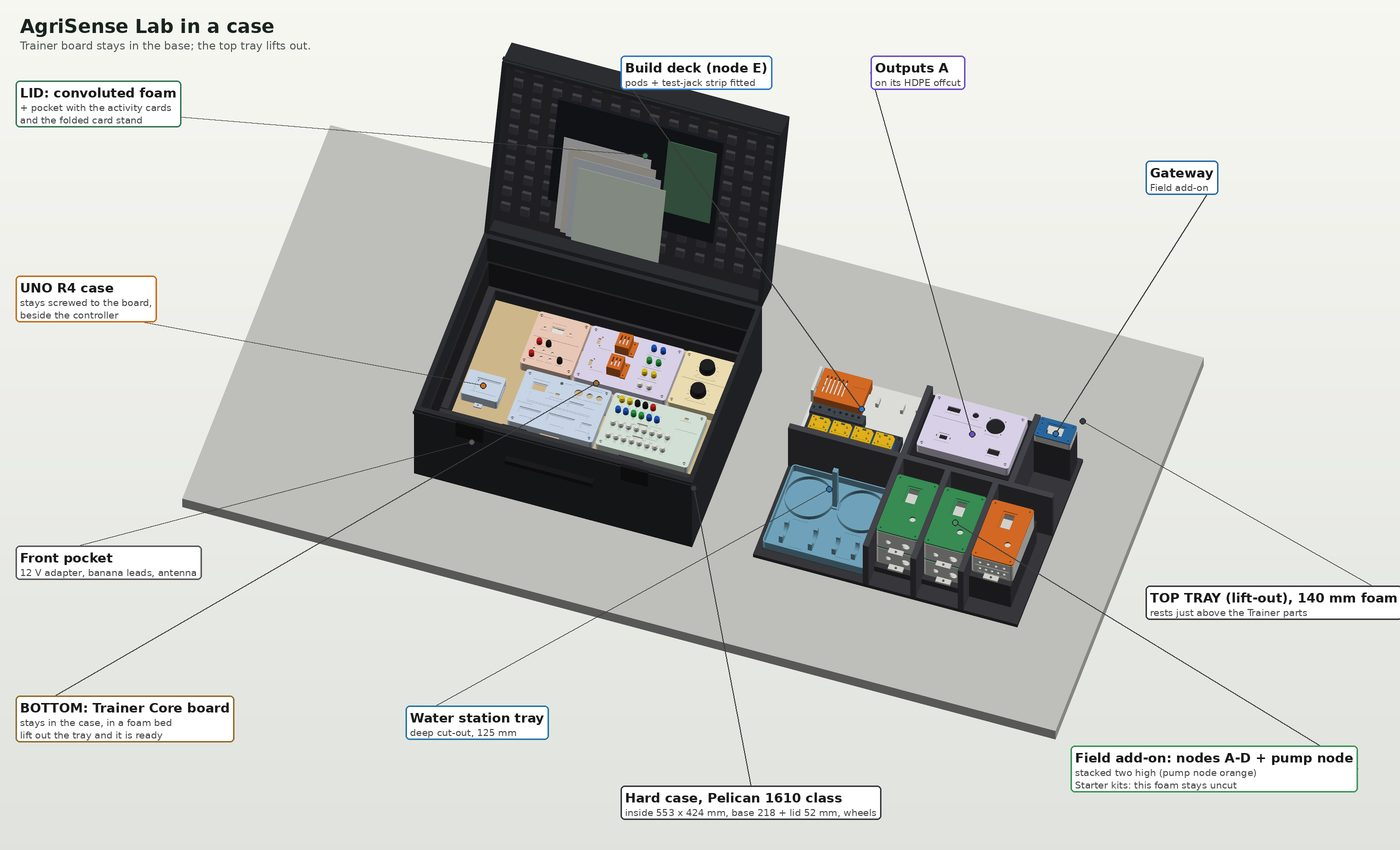
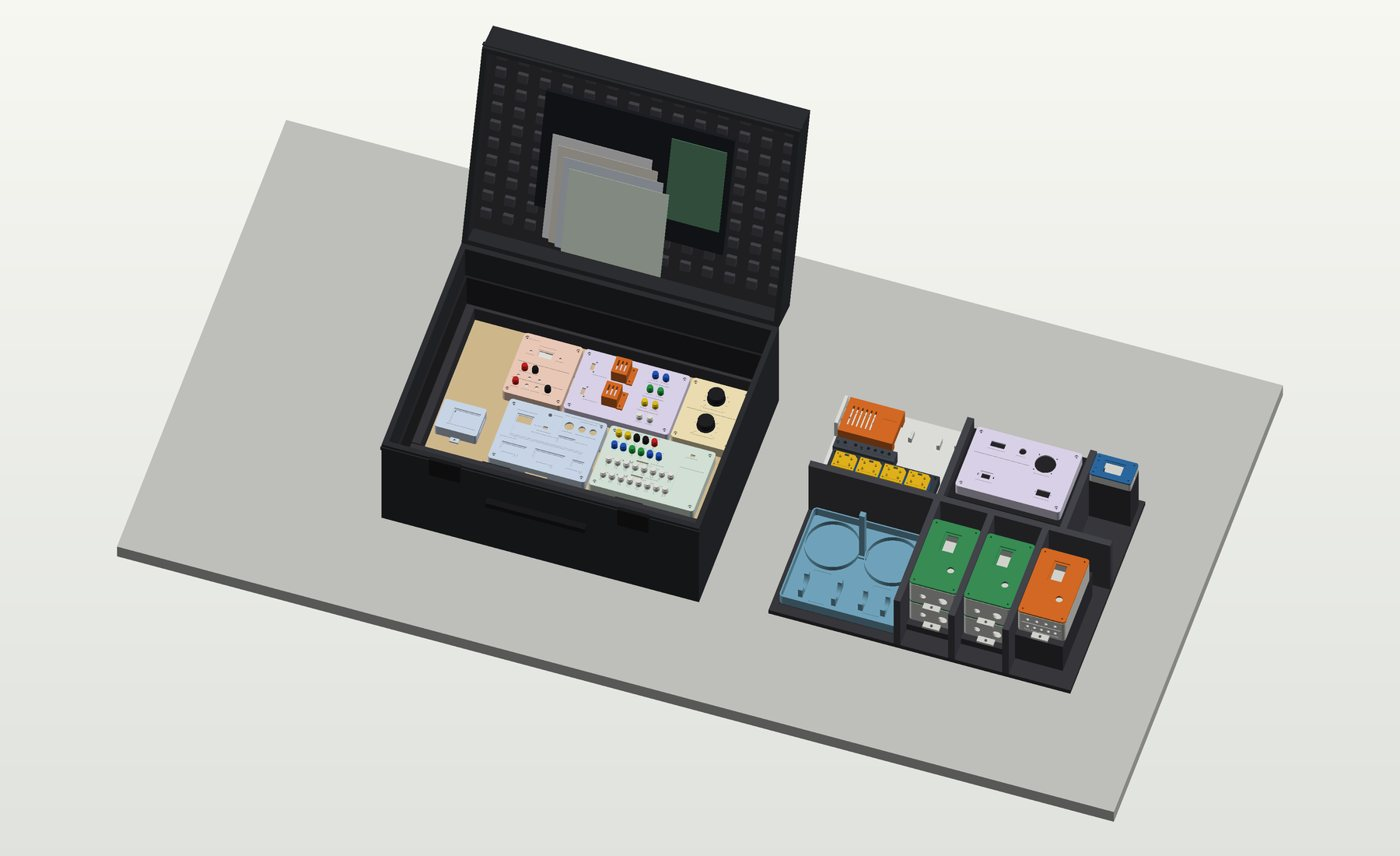
Kits page: friendlier copy, benefit tiles, clean product pictures
Plain, benefit-led kit descriptions; four 'why' tiles; encouraging FAQ (setup, no coding
needed), repair FAQ removed; Field add-on shown as an assembled kit instead of an exploded
view; picture titles and callouts removed from the kit images.

Claude-Session: https://claude.ai/code/session_01KTS5oJzAQnHpqmbrZXhuqj

diff --git a/agrisense/templates/public/kits.html b/agrisense/templates/public/kits.html
@@ -22,6 +22,10 @@
   </div>
 </section>
 
+<section id="why" class="grid g4" style="margin-top:10px;gap:12px">
+  {% for t, d in K.WHY %}<div class="card flat"><b>{{ t }}</b><p class="muted" style="margin:4px 0 0">{{ d }}</p></div>{% endfor %}
+</section>
+
 <section id="options" style="margin-top:20px">
   <h2>Options</h2>
   {% if K.ESTIMATED %}<p class="muted">Estimated prices until our supplier quotes are in. Pilot schools get pilot pricing.</p>{% endif %}
@@ -55,7 +59,7 @@
     <div class="card flat"><small class="faint">STEP {{ n }}</small><div><b>{{ t }}</b></div><p class="muted" style="margin:4px 0 0">{{ d }}</p></div>
     {% endfor %}
   </div>
-  <p class="muted" style="margin-top:12px">Funding that often covers kits like this: Perkins V (CTE), Title IV-A, and FFA chapter or local grants. We take purchase orders; we do not take card payments for kits.</p>
+  <p class="muted" style="margin-top:12px">Funding that often covers kits like this: Perkins V (CTE), Title IV-A, and FFA chapter or local grants.</p>
 </section>
 
 <section id="see" style="margin-top:36px">

diff --git a/agrisense/services/kits.py b/agrisense/services/kits.py
@@ -9,51 +9,57 @@ PILOT_TERM = "fall 2027"
 LICENCE_PER_KIT = 300                 # website licence, $ per kit (or per Virtual school) per year
 PER_STUDENT_STARTER = 13              # Starter + licence, 3 sections x 24 students, kit lasts 5 years
 
+WHY = [   # short benefit tiles near the top of /kits
+    ("Hands-on from day one", "Students plug in real sensors, a pump and a fan in the first lesson."),
+    ("Real farm decisions", "They measure the soil, decide when to water, and check if they were right."),
+    ("Works on Chromebooks", "Everything runs in the browser, including coding the student Arduino."),
+    ("Ready to teach", "14 lessons mapped to NGSS, CSTA and AFNR, with training and PD hours."),
+]
+
 KITS = [
     {"code": "starter", "name": "Starter", "price": 3149, "unit": "one-time, per kit", "image": "img/kits/starter_trainer.jpg",
      "tag": "The complete classroom lab",
-     "summary": "Everything students need to wire, measure, water and decide at one bench.",
-     "includes": ["Trainer board: power, controller, coding panel, relays (pump, fan, motor, grow light) and knobs",
-                  "UNO R4 WiFi student controller, screwed beside the controller (codes from a Chromebook)",
-                  "Water station: pump, pressure sensor, float switch, test cups",
-                  "Build deck: students assemble their own sensor node (node E)",
-                  "Plug-in sensor pods, banana leads, 12 V adapter",
-                  "Hard carry case with foam", f"Website licence: ${LICENCE_PER_KIT} a year"],
+     "summary": "Everything your class needs to wire, measure, water and decide, in one carry case.",
+     "includes": ["Trainer board with a pump, fan, motor and grow light to control",
+                  "A student Arduino your class codes from a Chromebook",
+                  "A water station to water plants and see the result",
+                  "A build deck where students build their own sensor",
+                  "Sensors, leads and a hard carry case",
+                  "All 14 lessons, dashboards and the AI Lab online"],
      "best_for": "Agriculture, science and CTE classrooms starting hands-on precision agriculture."},
-    {"code": "field", "name": "Field add-on", "price": 2249, "unit": "one-time, add to a Starter", "image": "img/kits/field_node.jpg",
+    {"code": "field", "name": "Field add-on", "price": 2249, "unit": "one-time, add to a Starter", "image": "img/kits/field_kit.jpg",
      "tag": "Optional",
-     "summary": "Turns the classroom lab into a real farm network for the greenhouse, garden or FFA plot.",
-     "includes": ["Four sealed outdoor soil nodes (A to D) with 7-in-1 soil probes",
-                  "Pump node for the drip line", "LoRa gateway: long-range radio to the website",
-                  "Logs all five soil-bench tubs day and night, then moves outside"],
+     "summary": "Take the lab outside: real soil sensors in your greenhouse, garden or FFA plot.",
+     "includes": ["Four weatherproof soil sensors", "Automatic watering control for a drip line",
+                  "Long-range radio gateway to the website", "Live soil data, day and night"],
      "best_for": "Schools with a greenhouse, school garden or FFA plot."},
     {"code": "both", "name": "Starter + Field", "price": 5349, "unit": "one-time, per kit", "image": "img/kits/case.jpg",
      "tag": "Everything",
-     "summary": "Both together: from the classroom bench to the school garden.",
+     "summary": "From the classroom bench to the school garden, all in one case.",
      "includes": ["Everything in Starter", "Everything in the Field add-on", "Packs in one hard case"],
      "best_for": "Programs ready to run the full year with their own field data."},
     {"code": "virtual", "name": "Virtual", "price": LICENCE_PER_KIT, "unit": "per year", "image": None,
      "tag": "No hardware",
-     "summary": "The website, simulation mode and the AI Lab. Every lesson runs on simulated sensors.",
-     "includes": ["All 14 lessons in simulation mode", "AI Lab (lessons 2.1 to 2.5) with sample farm data",
-                  "Field Studio dashboards", "Teacher training Level 1 (online)"],
+     "summary": "Start today in the browser: every lesson runs on simulated sensors.",
+     "includes": ["All 14 lessons in simulation mode", "AI Lab with real sample farm data",
+                  "Dashboards students build themselves", "Online teacher training"],
      "best_for": "Trying AgriSense Lab before buying hardware, or a computer science class."},
 ]
 
 SCHOOL_PROVIDES = [
-    ("Soil bench supplies", "Five clear tubs, a drip kit, a bucket, sand, topsoil, clay, fertilizer and salt: about $100 at a local store. We send the shopping list and a setup card."),
+    ("Soil bench supplies", "Tubs, a drip kit, soil and sand from a local store, about $100. We send the shopping list and a picture setup card."),
     ("Two digital multimeters", "Most science and ag classrooms already have them."),
-    ("Chromebooks or laptops", "Any computer with a web browser. Students code the UNO R4 in the Arduino Cloud Editor."),
-    ("Wi-Fi", "The Trainer and the gateway join the school network."),
+    ("Chromebooks or laptops", "Any computer with a web browser."),
+    ("Wi-Fi", "The kit joins your school network."),
 ]
 
 FAQ = [
-    ("Do we need the Field add-on?", "No. Starter runs every hands-on lesson at the bench. Lessons that need days of continuous data use the shared sample data or simulation until you add the Field nodes, which record your own."),
-    ("How do we pay?", "Request a quote. We send a formal quote your business office can turn into a purchase order. We ship the kit and invoice the school. We do not take card payments for kits."),
-    ("How long does setup take?", "About an hour for the Trainer and the water station, plus an hour for the soil bench. Teacher training Level 1 (3 hours, online) walks through it."),
-    ("Is student data safe?", "Students sign in with a class code and pictures, with no email or birthday. We sign your district's data privacy agreement."),
-    ("What if something breaks?", "Every printed part can be reprinted and every electronic part is a standard part. Pilot schools get spare parts and direct support."),
-    ("Are prices final?", "Not yet. They are estimates until our supplier quotes are in. Pilot schools get pilot pricing."),
+    ("Do we need the Field add-on?", "No. Starter runs every hands-on lesson at the bench. You can add the Field sensors any time, and they record your own garden data."),
+    ("Is it hard to set up?", "No. The kit arrives assembled and tested: plug it in, join the Wi-Fi and it is ready. Online teacher training shows every step, and pilot schools get help from us directly."),
+    ("Do I need coding experience?", "No. Lessons are step by step, and students start by plugging in leads, not writing code. Coding comes later, at each student's pace."),
+    ("Is student data safe?", "Yes. Students sign in with a class code and pictures, with no email or birthday, and we sign your district's data privacy agreement."),
+    ("How do we pay?", "Request a quote. We send a formal quote your business office can turn into a purchase order, then we ship and invoice the school."),
+    ("Are prices final?", "Not yet. They are estimates until our supplier quotes are in, and pilot schools get pilot pricing."),
 ]
 
 QUOTE_CHOICES = [(k["code"], k["name"]) for k in KITS] + [("district", "District (several schools)")]
